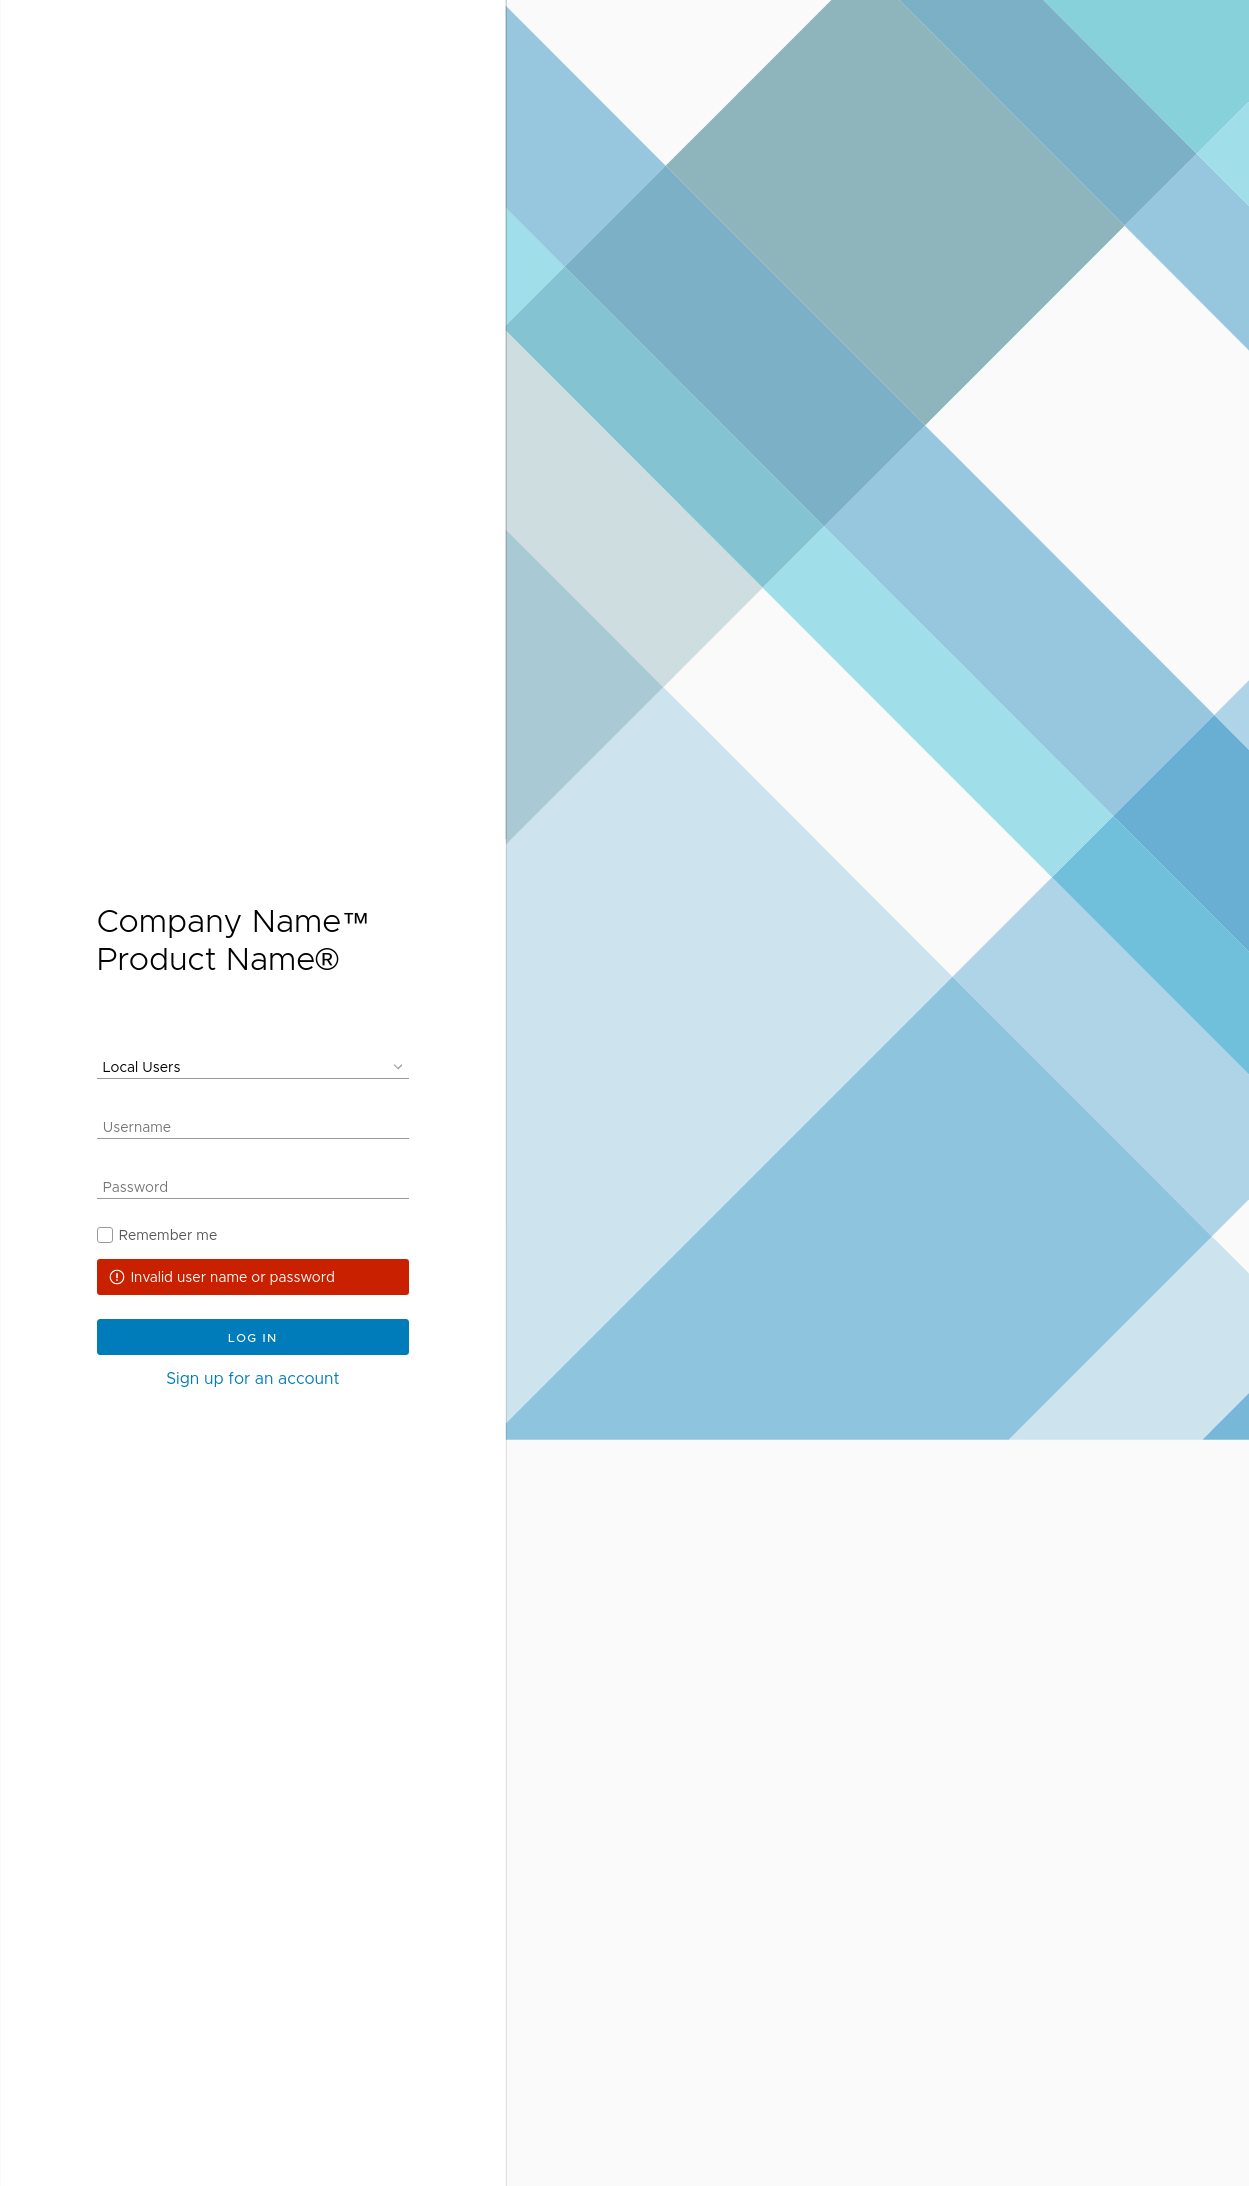
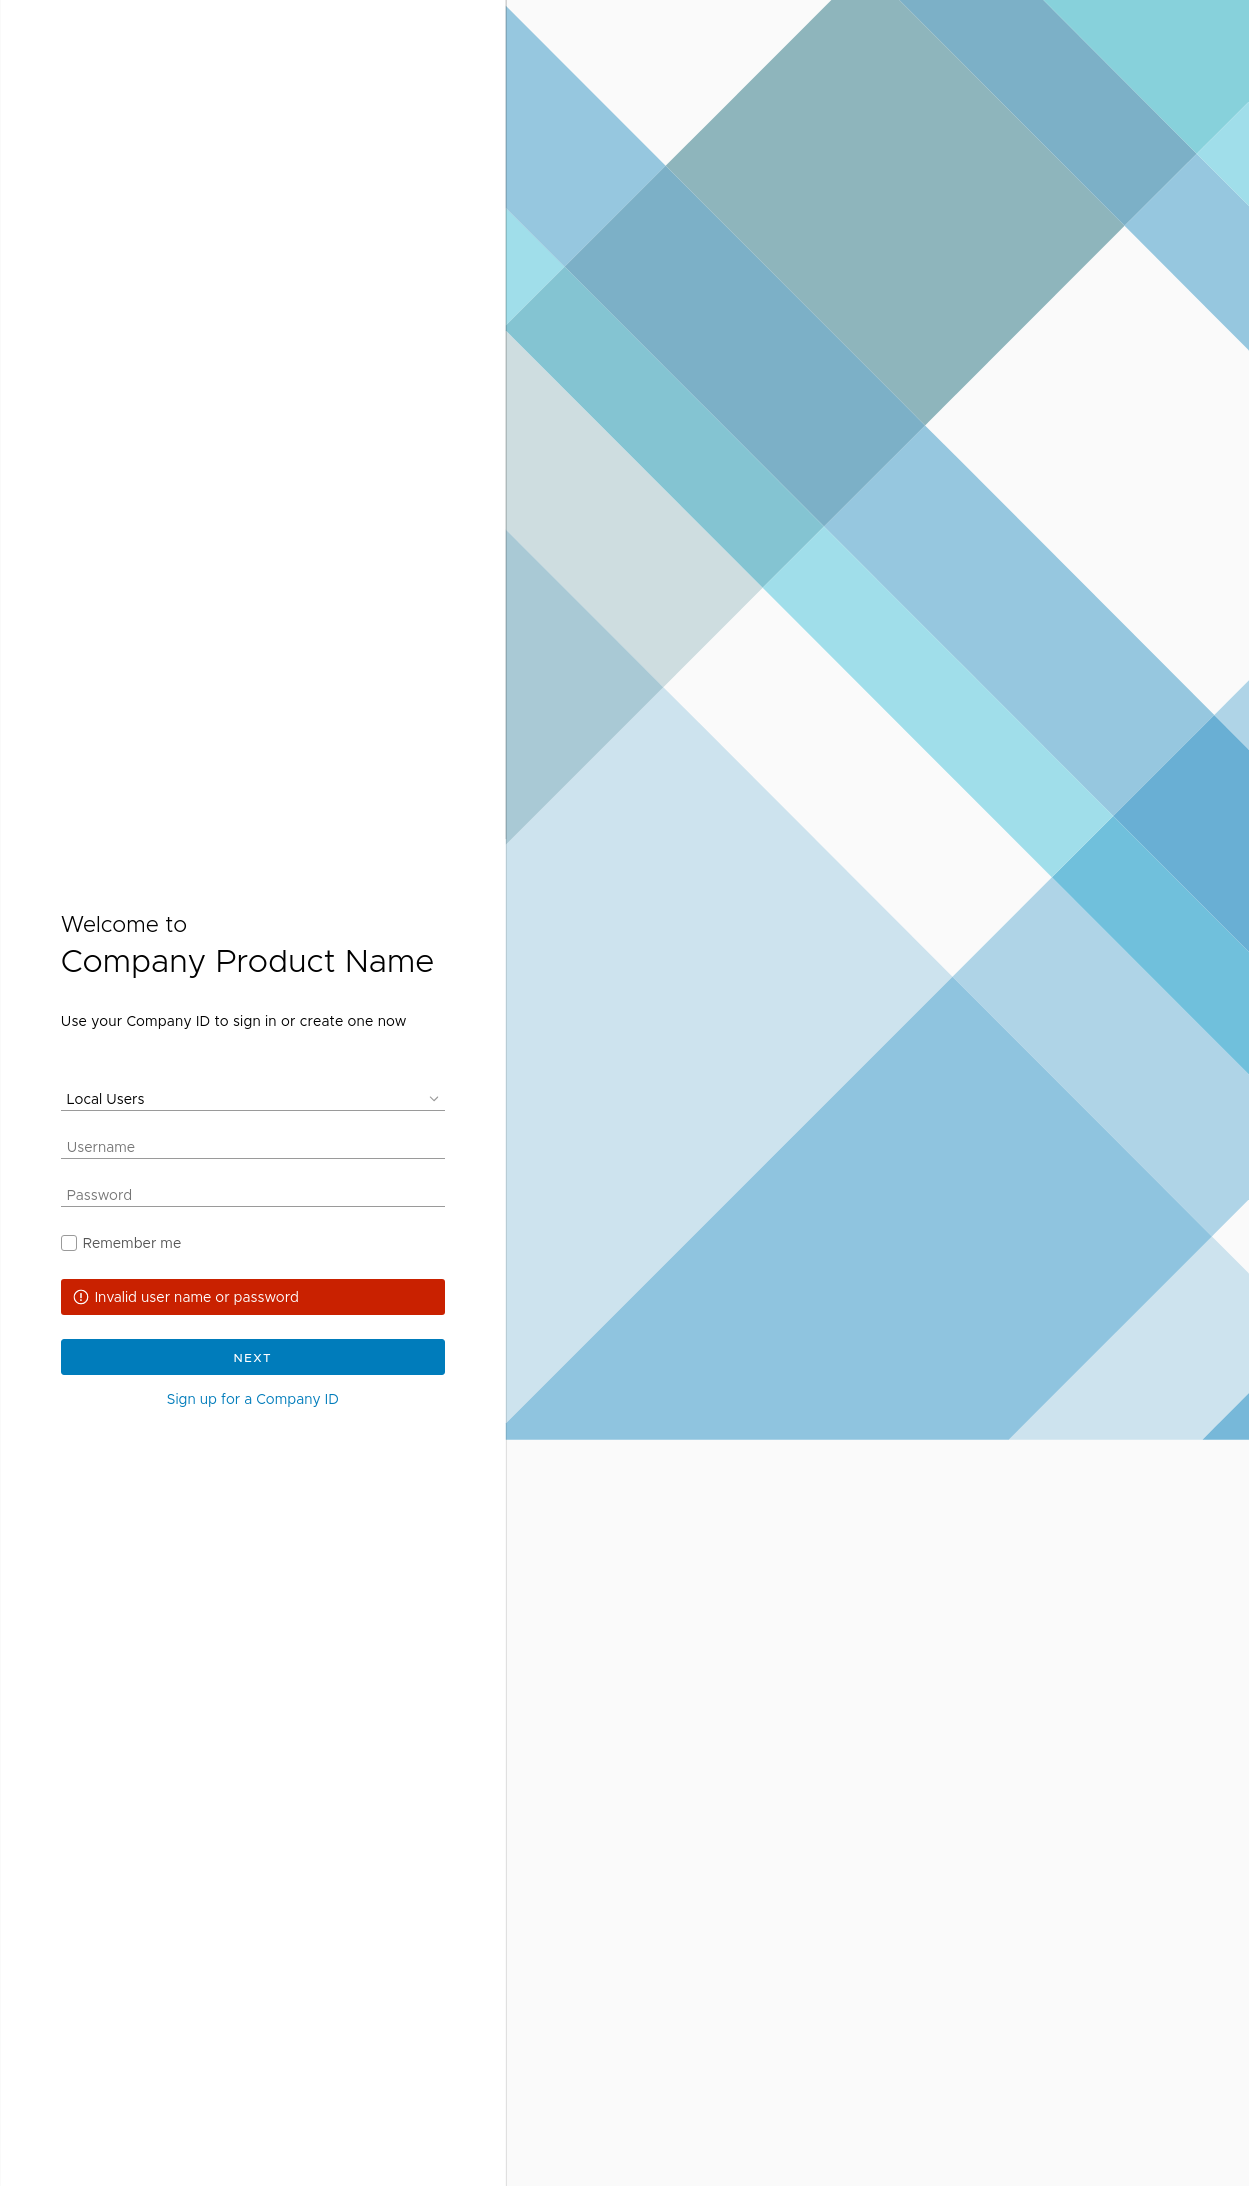
[ui] update login page
Fixes #929.

Changed region(s): [[0.0312, 0.4044, 0.3747, 0.6532]]

diff --git a/src/clarity-angular/layout/_login.clarity.scss b/src/clarity-angular/layout/_login.clarity.scss
@@ -20,7 +20,7 @@ $clr-login-icon-size: $clr-icon-dimension-sm !default;
             display: flex;
             flex-direction: column;
             justify-content: center;
-            padding: $clr_baselineRem_1 $clr_baselineRem_4;
+            padding: $clr_baselineRem_1 $clr_baselineRem_2_5;
             height: auto;
             min-height: 100vh;
             width: $clr-login-width;
@@ -28,6 +28,14 @@ $clr-login-icon-size: $clr-icon-dimension-sm !default;
             .title {
                 @include clr-getTypePropertiesForDomElement(login_productName, (color, font-weight, font-family, font-size, letter-spacing));
                 line-height: $clr_baselineRem_1_5;
+
+                .welcome {
+                    line-height: $clr_baselineRem_1_5;
+                }
+                .hint {
+                    margin-top: $clr_baselineRem_1_25;
+                    font-size: rem(14/$clr-rem-denominator);
+                }
             }
 
             .trademark {
@@ -42,14 +50,14 @@ $clr-login-icon-size: $clr-icon-dimension-sm !default;
             .login-group {
                 display: flex;
                 flex-direction: column;
-                padding: $clr_baselineRem_3 0 0 0;
+                padding: $clr_baselineRem_2 0 0 0;
 
                 .auth-source {
-                    margin: $clr_baselineRem_0_25 0 $clr_baselineRem_1_25 0;
+                    margin: $clr_baselineRem_0_25 0 $clr_baselineRem_0_75 0;
                 }
 
                 .username {
-                    margin: $clr_baselineRem_0_25 0 $clr_baselineRem_1_25 0;
+                    margin: $clr_baselineRem_0_25 0 $clr_baselineRem_0_75 0;
                 }
 
                 .password {
@@ -57,7 +65,7 @@ $clr-login-icon-size: $clr-icon-dimension-sm !default;
                 }
 
                 .checkbox {
-                    margin: $clr_baselineRem_0_25 0 $clr_baselineRem_0_25 0;
+                    margin: $clr_baselineRem_0_25 0 $clr_baselineRem_0_75 0;
                 }
 
                 .tooltip-validation {
@@ -108,7 +116,7 @@ $clr-login-icon-size: $clr-icon-dimension-sm !default;
 
                 .signup {
                     margin-top: $clr_baselineRem_0_5;
-                    font-size: rem(16/$clr-rem-denominator);
+                    font-size: rem(14/$clr-rem-denominator);
                     text-align: center;
                 }
             }

diff --git a/src/app/login/login.demo.html b/src/app/login/login.demo.html
@@ -8,8 +8,9 @@
     <div class="login-wrapper">
         <form class="login">
             <label class="title">
-                Company Name<span class="trademark">&#8482;</span>
-                Product Name&#174;
+                <h3 class="welcome">Welcome to</h3>
+                Company Product Name
+                <h5 class="hint">Use your Company ID to sign in or create one now</h5>
             </label>
             <div class="login-group">
                 <div class="auth-source select">
@@ -29,8 +30,8 @@
                 <div class="error active">
                     Invalid user name or password
                 </div>
-                <button type="submit" class="btn btn-primary">LOG IN</button>
-                <a href="javascript://" class="signup">Sign up for an account</a>
+                <button type="submit" class="btn btn-primary">NEXT</button>
+                <a href="javascript://" class="signup">Sign up for a Company ID</a>
             </div>
         </form>
     </div>
@@ -40,8 +41,9 @@
     &lt;div class=&quot;login-wrapper&quot;&gt;
         &lt;form class=&quot;login&quot;&gt;
             &lt;label class=&quot;title&quot;&gt;
-                Company Name&lt;span class=&quot;trademark&quot;&gt;&amp;#8482;&lt;/span&gt;
-                Product Name&amp;#174;
+                &lt;h3 class=&quot;welcome&quot;&gt;Welcome to&lt;/h3&gt;
+                Company Product Name
+                &lt;h5 class=&quot;hint&quot;&gt;Use your Company ID to sign in or create one now&lt;/h5&gt;
             &lt;/label&gt;
             &lt;div class=&quot;login-group&quot;&gt;
                 &lt;div class=&quot;auth-source select&quot;&gt;
@@ -61,8 +63,8 @@
                 &lt;div class=&quot;error active&quot;&gt;
                     Invalid user name or password
                 &lt;/div&gt;
-                &lt;button type=&quot;submit&quot; class=&quot;btn btn-primary&quot;&gt;LOG IN&lt;/button&gt;
-                &lt;a href=&quot;...&quot; class=&quot;signup&quot;&gt;Sign up for an account&lt;/a&gt;
+                &lt;button type=&quot;submit&quot; class=&quot;btn btn-primary&quot;&gt;NEXT&lt;/button&gt;
+                &lt;a href=&quot;...&quot; class=&quot;signup&quot;&gt;Sign up for a Company ID&lt;/a&gt;
             &lt;/div&gt;
         &lt;/form&gt;
     &lt;/div&gt;
